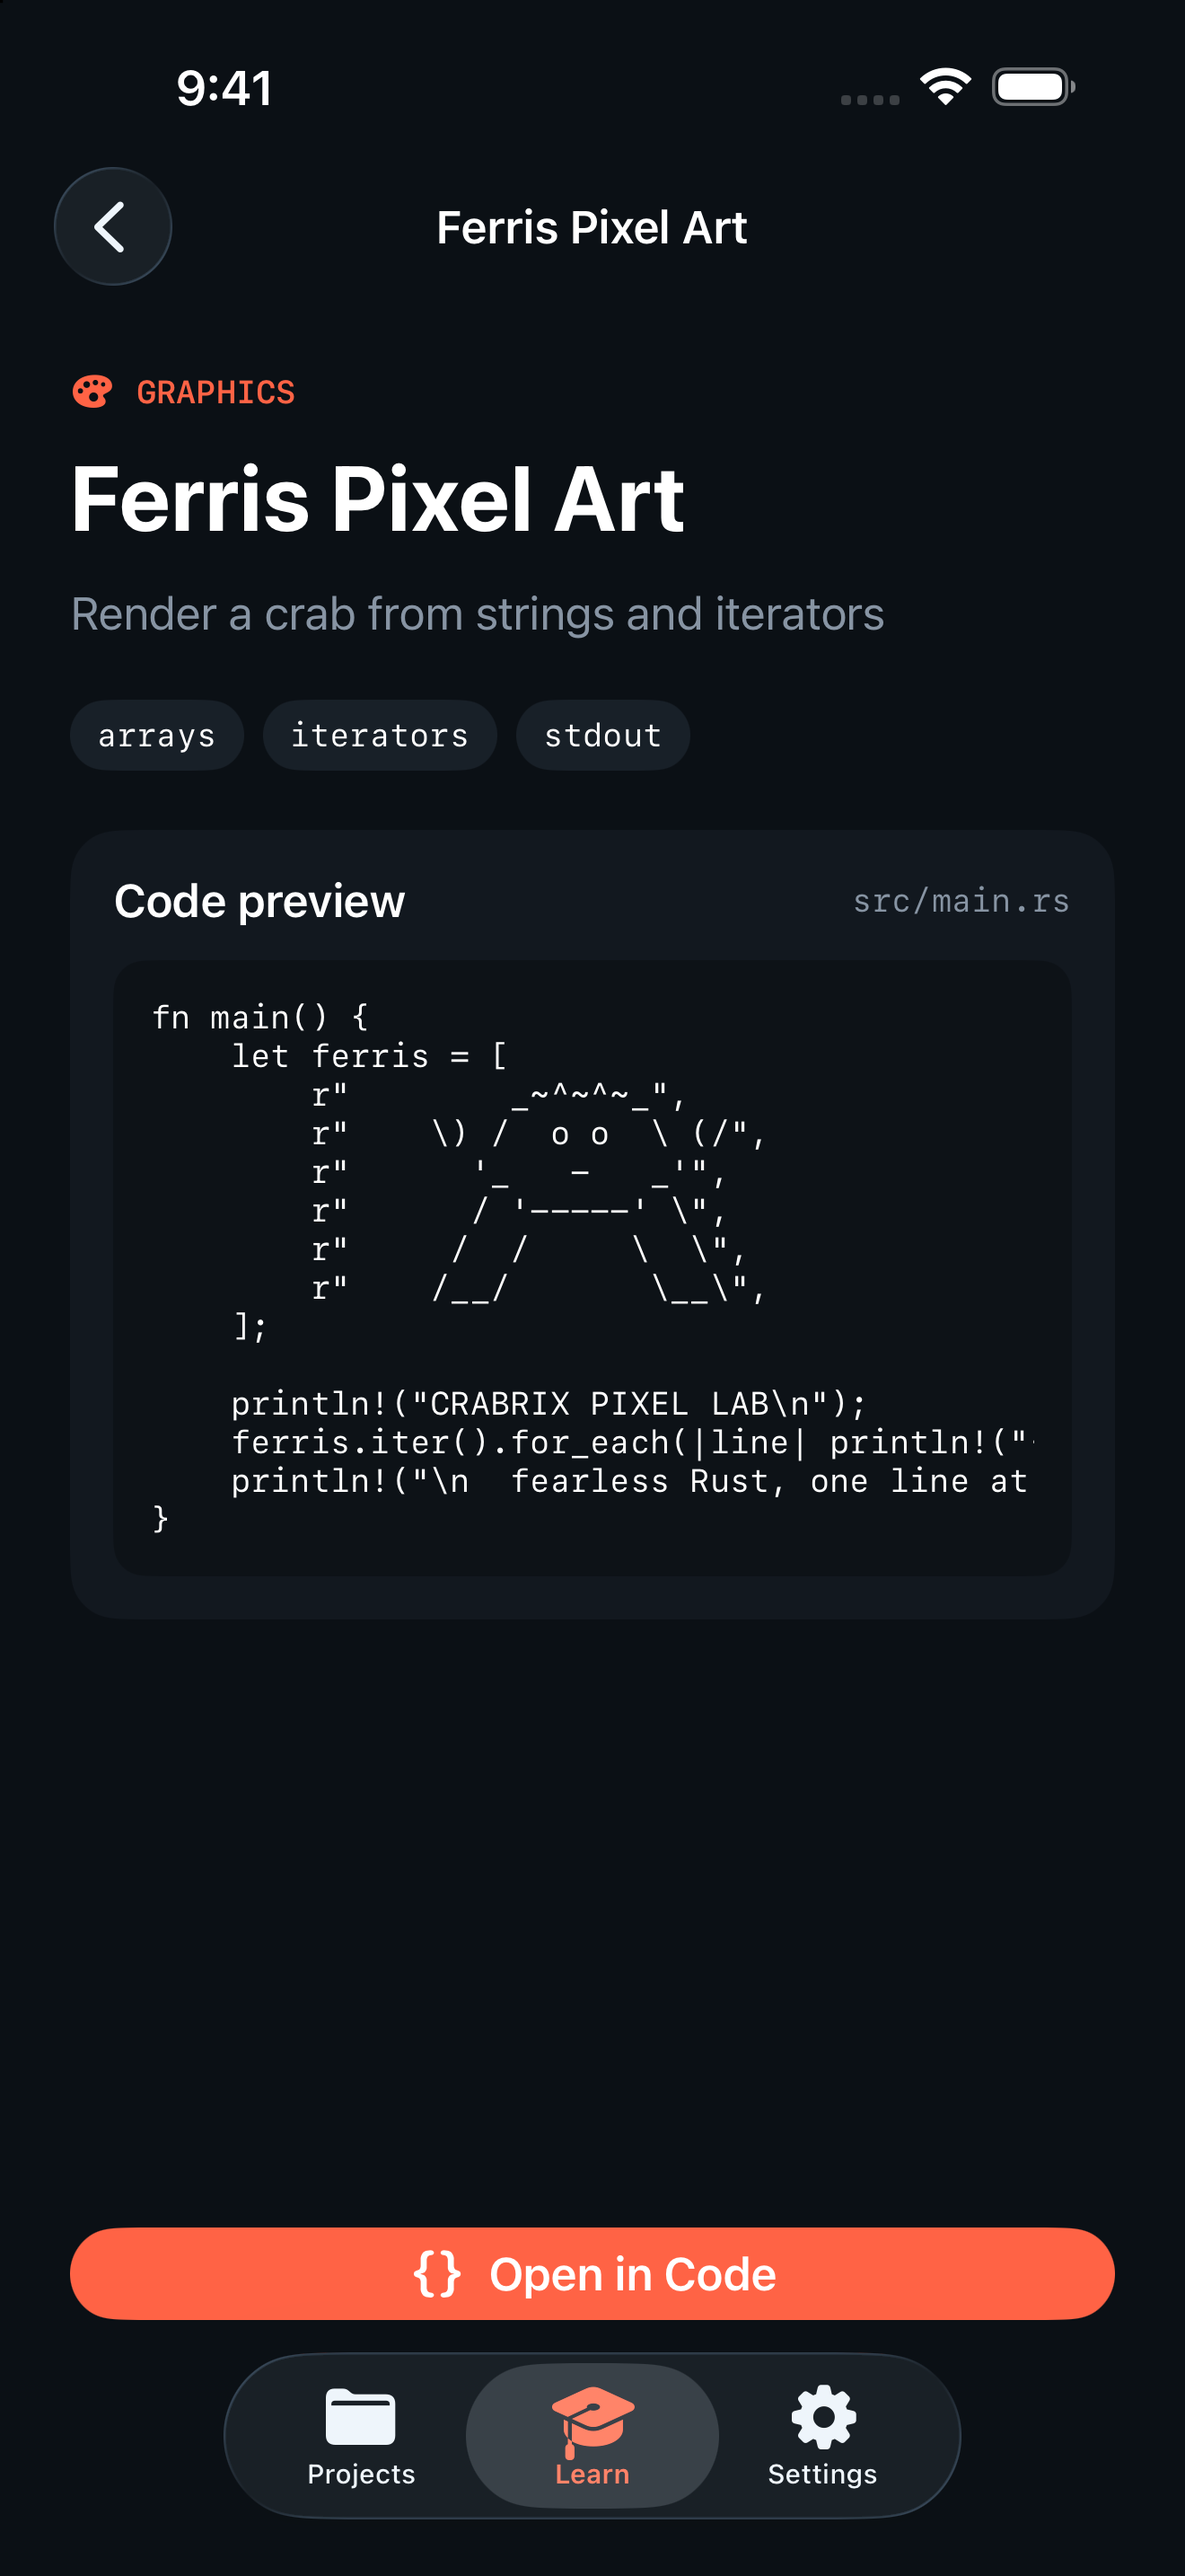
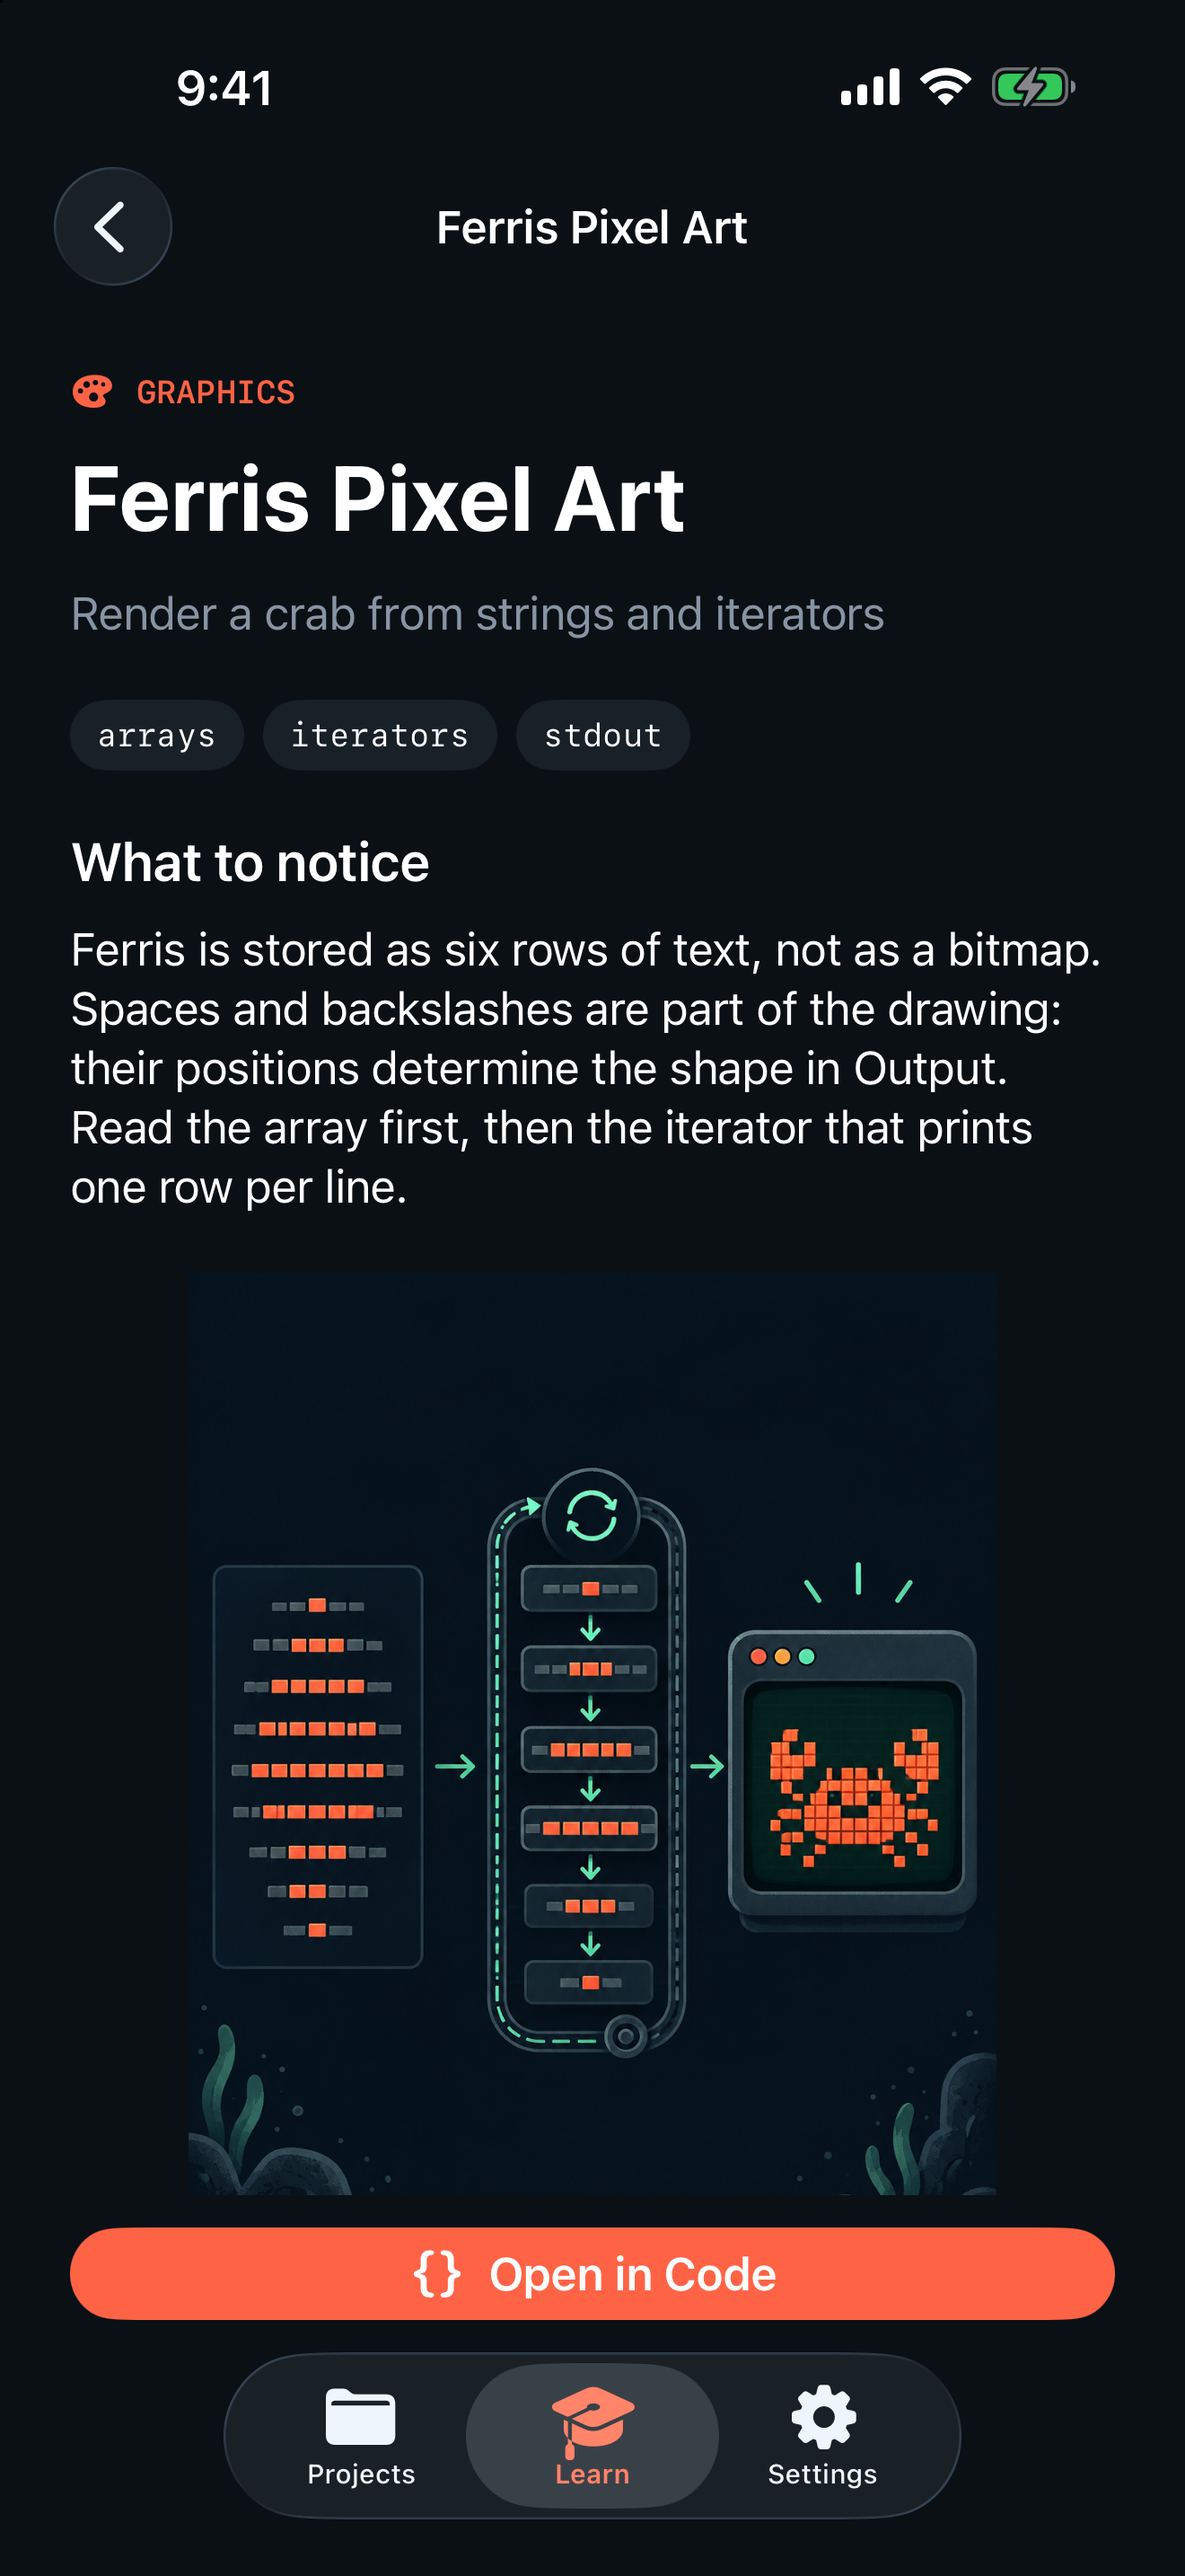
Record build 20 validation and example screenshot

diff --git a/docs/VALIDATION.md b/docs/VALIDATION.md
@@ -1,5 +1,11 @@
 # Validation record
 
+## Build 20 expanded Code Examples guides — 3 October 2026
+
[1 lines of base64/hex data omitted]
+
[1 lines of base64/hex data omitted]
+
 ## Build 19 Academy card controls and appearance — 3 October 2026
 
[1 lines of base64/hex data omitted]
